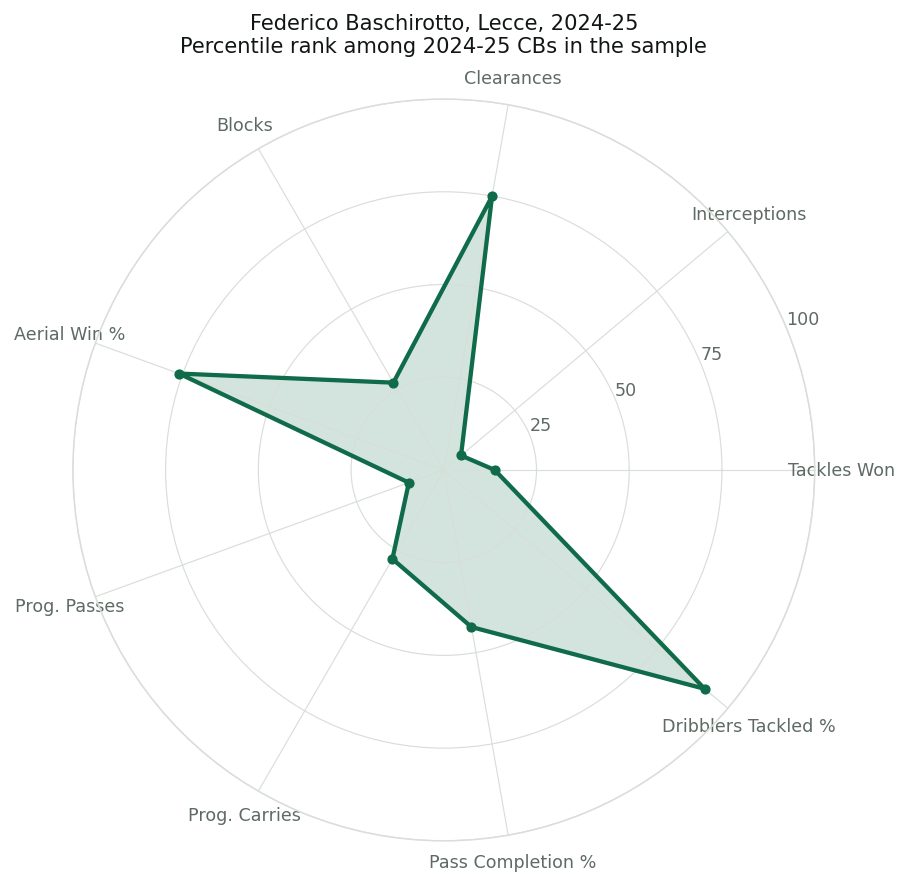
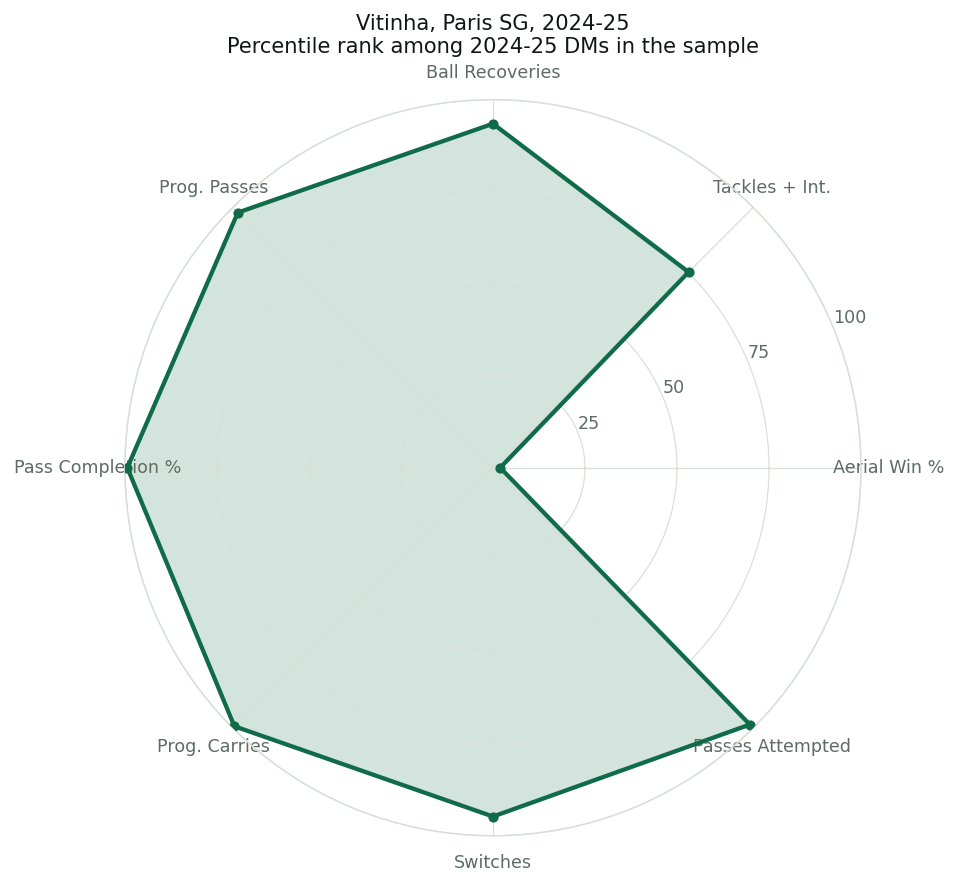
README changes: streamlit URL and changed radar graph

diff --git a/src/figures.py b/src/figures.py
@@ -39,6 +39,10 @@ ACCENT = "#0F6B4A"
 FLAG = "#A8481B"
 GRID = "#D8DED8"
 
+# The README's hero radar: Vitinha, PSG, 2024-25.
+# The data also has a Vitinha at Genoa, so name the player-season, not the player.
+RADAR_PLAYER = "Vitinha__2425__Paris_SG"
+
 plt.rcParams.update({
         "figure.dpi": 140,
         "savefig.dpi": 140,
@@ -95,9 +99,11 @@ def _eur_m(value: float, _position=None) -> str:
 def radar_figure(player_season_id: str | None = None) -> None:
         """Percentile radar for one player - the README's hero image.
 
-        Writes assets/radar_example.png. With no argument the player is the
-        highest-minutes player-season in the largest position group (ties
-        broken by id, so the default never changes between runs).
+        Writes assets/radar_example.png. With no argument the player is
+        RADAR_PLAYER, or, if that player-season is not in the data (the
+        synthetic test tables, say), the highest-minutes player-season in the
+        largest position group (ties broken by id, so the default never
+        changes between runs).
 
         Axes are the group's radar axes from config.GROUP_SPECS, minus any the
         player has no value for. The radial axis is fixed at 0-100 so two
@@ -110,6 +116,9 @@ def radar_figure(player_season_id: str | None = None) -> None:
         # player or looking up an explicitly requested player-season.
         percentiles = pd.read_parquet(paths.PERCENTILES)
         features = pd.read_parquet(paths.FEATURES)
+
+        if player_season_id is None and RADAR_PLAYER in set(features["player_season_id"].astype(str)):
+                player_season_id = RADAR_PLAYER
 
         if player_season_id is None:
                 # "Largest group" means the most data-rich peer population.

diff --git a/README.md b/README.md
@@ -2,11 +2,11 @@
 
 Find players who play like the one you are losing, across Europe's five big leagues, and see which of them the market prices below their profile.
 
-**Live app:** _link added after deployment to Streamlit Community Cloud_
+**Live app:** [recruitment-player-similarity-proyect.streamlit.app](https://recruitment-player-similarity-proyect.streamlit.app/), no install needed
 
 <p align="center">
   <img src="assets/radar_example.png" width="560"
-       alt="Percentile radar for Federico Baschirotto, Lecce, 2024-25, against that season's centre-backs">
+       alt="Percentile radar for Vitinha, Paris Saint-Germain, 2024-25, against that season's defensive midfielders">
 </p>
 
 |                         |                                                                                                                                        |
